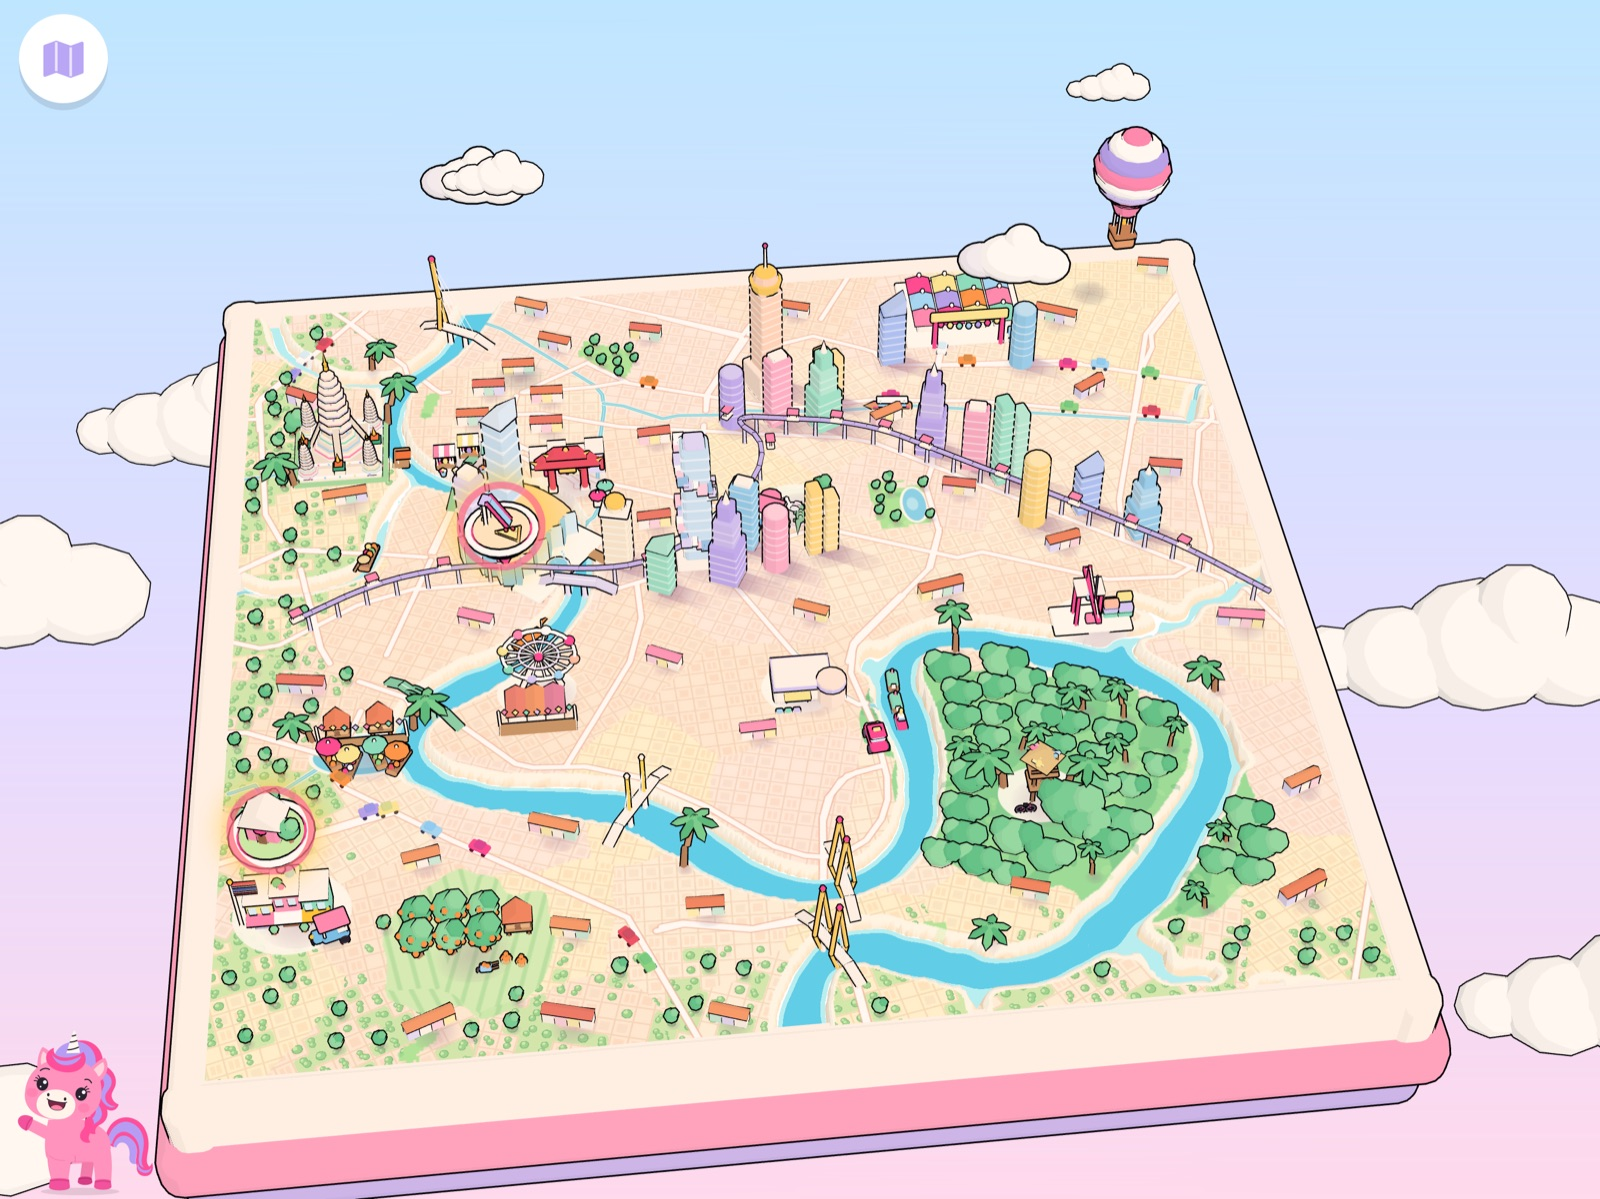
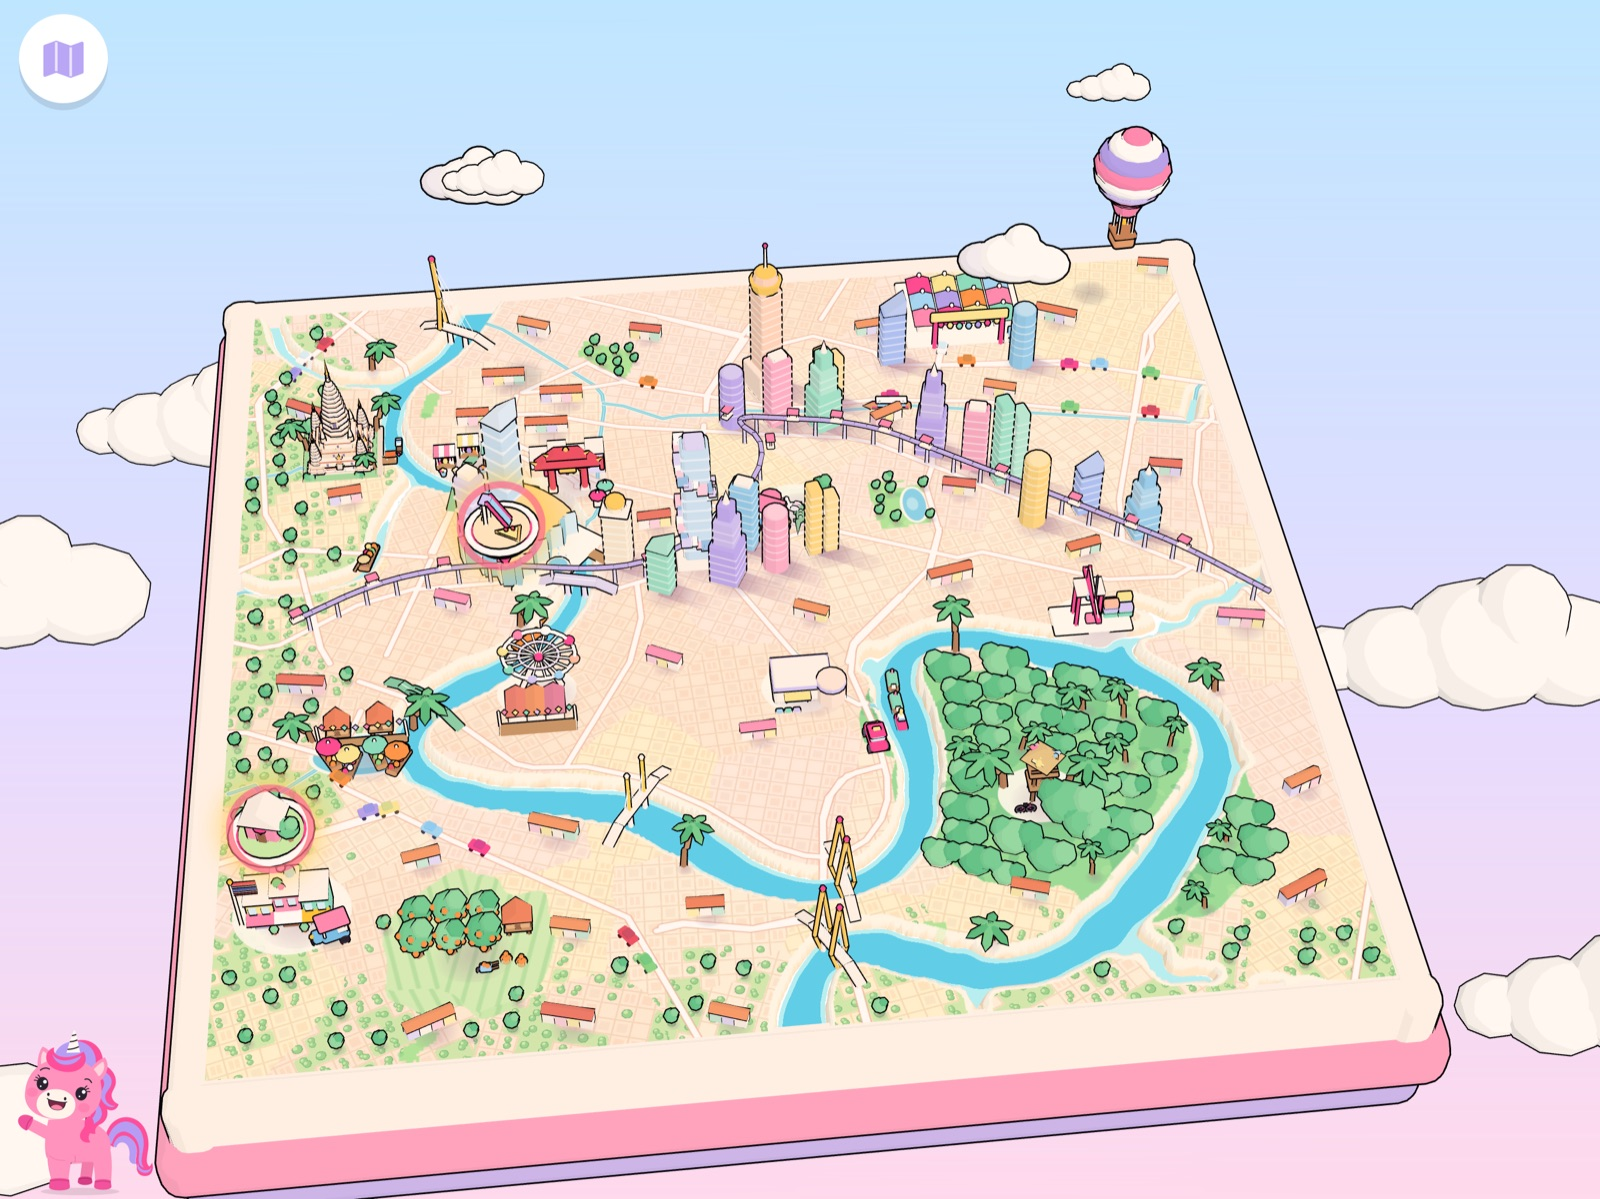
Review page for neb636/bangkok-landmarks

diff --git a/neb636--bangkok-landmarks/index.html b/neb636--bangkok-landmarks/index.html
@@ -37,11 +37,13 @@ button:focus-visible,.pill:focus-visible{outline:3px solid var(--ink);outline-of
 </style></head><body><main>
 <span class="chip">Check-in fix</span>
 <h1>Bangkok map: Wat Arun, smaller pins, and zoom on every map</h1>
-<p class="kaylee">The Bangkok map now shows Wat Arun on the Thonburi bank, so it looks like Bangkok at a glance. It's scenery only, so tapping it does nothing. The kites are gone and the old town is back the way it was, and the two place pins are 40% smaller. On every Thailand map she can pinch in (iPad and iPhone) or pinch on a Mac trackpad or scroll, up to 2.5 times closer, toward the spot under her fingers.</p>
+<p class="kaylee">The Bangkok map now shows Wat Arun on the Thonburi bank, smaller and more detailed than before: stepped terraces with red trim and little niches, pinnacles, slim corner prangs and a long gold needle. A tap names it: the light runs up its gold, a soft shimmer, and Sparkle says &quot;Wat Arun, the Temple of Dawn! It sparkles with tiny pieces of colorful china.&quot; Nothing moves it. The kites and the Grand Palace are gone, and the two place pins are 40% smaller. On every Thailand map she can pinch in (iPad and iPhone) or pinch on a Mac trackpad or scroll, up to 2.5 times closer, toward the spot under her fingers. New sound: 1.5 s (the shimmer).</p>
 
 
 <h2>Before and after</h2><div class="pics"><figure class="pair"><div><img src="pics/oldtown-before.jpg" alt="Before: The old town" loading="lazy"><span>Before</span></div><div><img src="pics/oldtown-after.jpg" alt="After: The old town" loading="lazy"><span>After</span></div>
 <figcaption><b>The old town</b>: Wat Arun on the left bank, where it really is</figcaption></figure>
+<figure class="solo"><img src="pics/arun-close.jpg" alt="Wat Arun up close" loading="lazy">
+<figcaption><b>Wat Arun up close</b>: Zoomed in: terraces, niches, pinnacles, corner prangs, its pier and a longtail</figcaption></figure>
 <figure class="solo"><img src="pics/board-after.jpg" alt="The whole board" loading="lazy">
 <figcaption><b>The whole board</b>: iPad landscape</figcaption></figure>
 <figure class="solo"><img src="pics/zoom-bangkok.jpg" alt="Zoomed in on the old town" loading="lazy">
@@ -51,13 +53,15 @@ button:focus-visible,.pill:focus-visible{outline:3px solid var(--ink);outline-of
 <figure class="solo"><img src="pics/zoom-krabi.jpg" alt="Pinched in on the Krabi map" loading="lazy">
 <figcaption><b>Pinched in on the Krabi map</b>: A two-finger pinch over the bay</figcaption></figure></div>
 
-
+<h2>Listen</h2><div class="card listen"><h3>Wat Arun</h3>
+<audio controls preload="metadata" src="sfx/arun.mp3"></audio>
+<ol class="meta"><li><button class="cue" data-at="0" data-end="1.48"><span class="t">0:00–0:01</span> Wat Arun's gold catches the light</button></li></ol></div>
 <h2>Your call</h2><ol><li><p>Is 2.5x closer the right limit, or should it stop sooner?</p><textarea rows="2" data-q="0" placeholder="Your answer (a word is fine)"></textarea></li>
-<li><p>Does Wat Arun look good enough, or should it be bigger?</p><textarea rows="2" data-q="1" placeholder="Your answer (a word is fine)"></textarea></li></ol><button id="copy">Copy my answers</button><p class="meta" id="done"></p><textarea id="answers" rows="5" readonly aria-label="Your answers, to copy"></textarea>
+<li><p>Is Sparkle's Wat Arun line right, or would you word it differently?</p><textarea rows="2" data-q="1" placeholder="Your answer (a word is fine)"></textarea></li></ol><button id="copy">Copy my answers</button><p class="meta" id="done"></p><textarea id="answers" rows="5" readonly aria-label="Your answers, to copy"></textarea>
 <h2>Play it yourself (optional)</h2><p><a class="pill" href="../#/world/thailand/hub/bangkok">Open the Bangkok map</a></p>
 </main>
 <script>
-const qs=["Is 2.5x closer the right limit, or should it stop sooner?","Does Wat Arun look good enough, or should it be bigger?"],titles=[]
+const qs=["Is 2.5x closer the right limit, or should it stop sooner?","Is Sparkle's Wat Arun line right, or would you word it differently?"],titles=[]
 let picked=''
 document.querySelectorAll('.pick').forEach(b=>b.addEventListener('click',async()=>{const t='Pick: '+titles[+b.dataset.p];picked=t
   document.querySelectorAll('.pick').forEach(o=>{o.classList.toggle('on',o===b);o.textContent=o===b?'✓ Picked':'Pick this one'})
